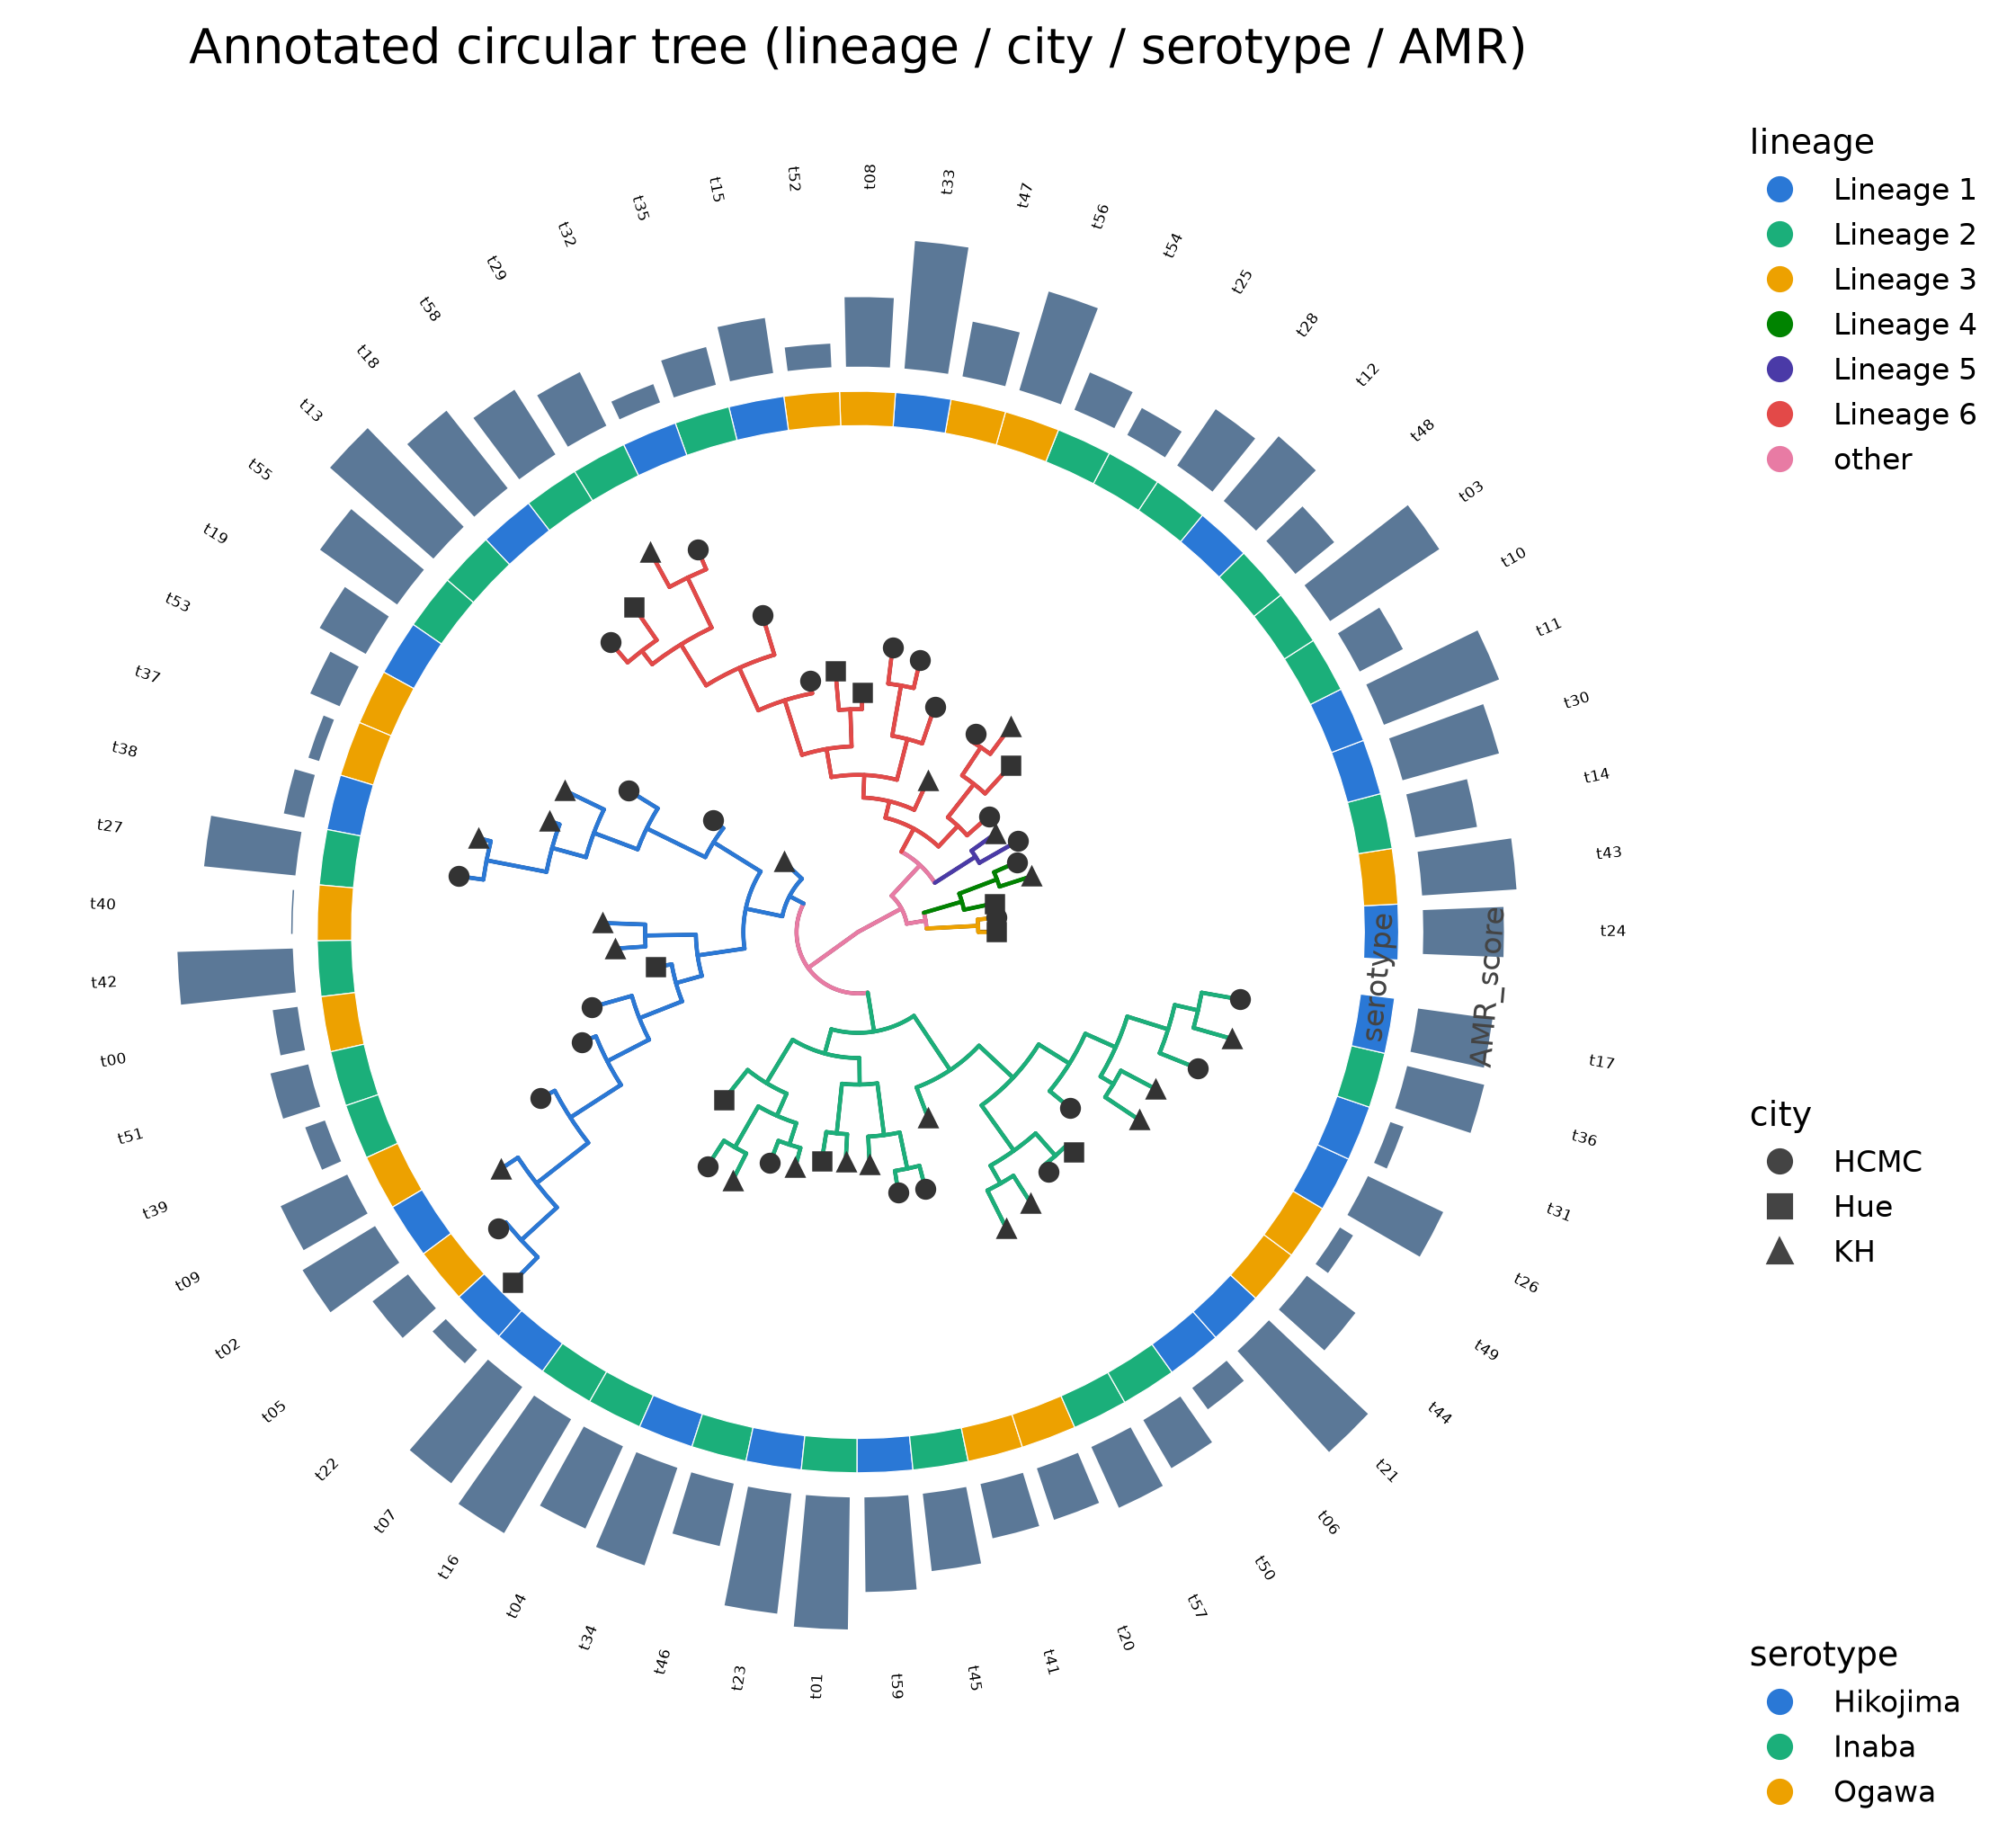
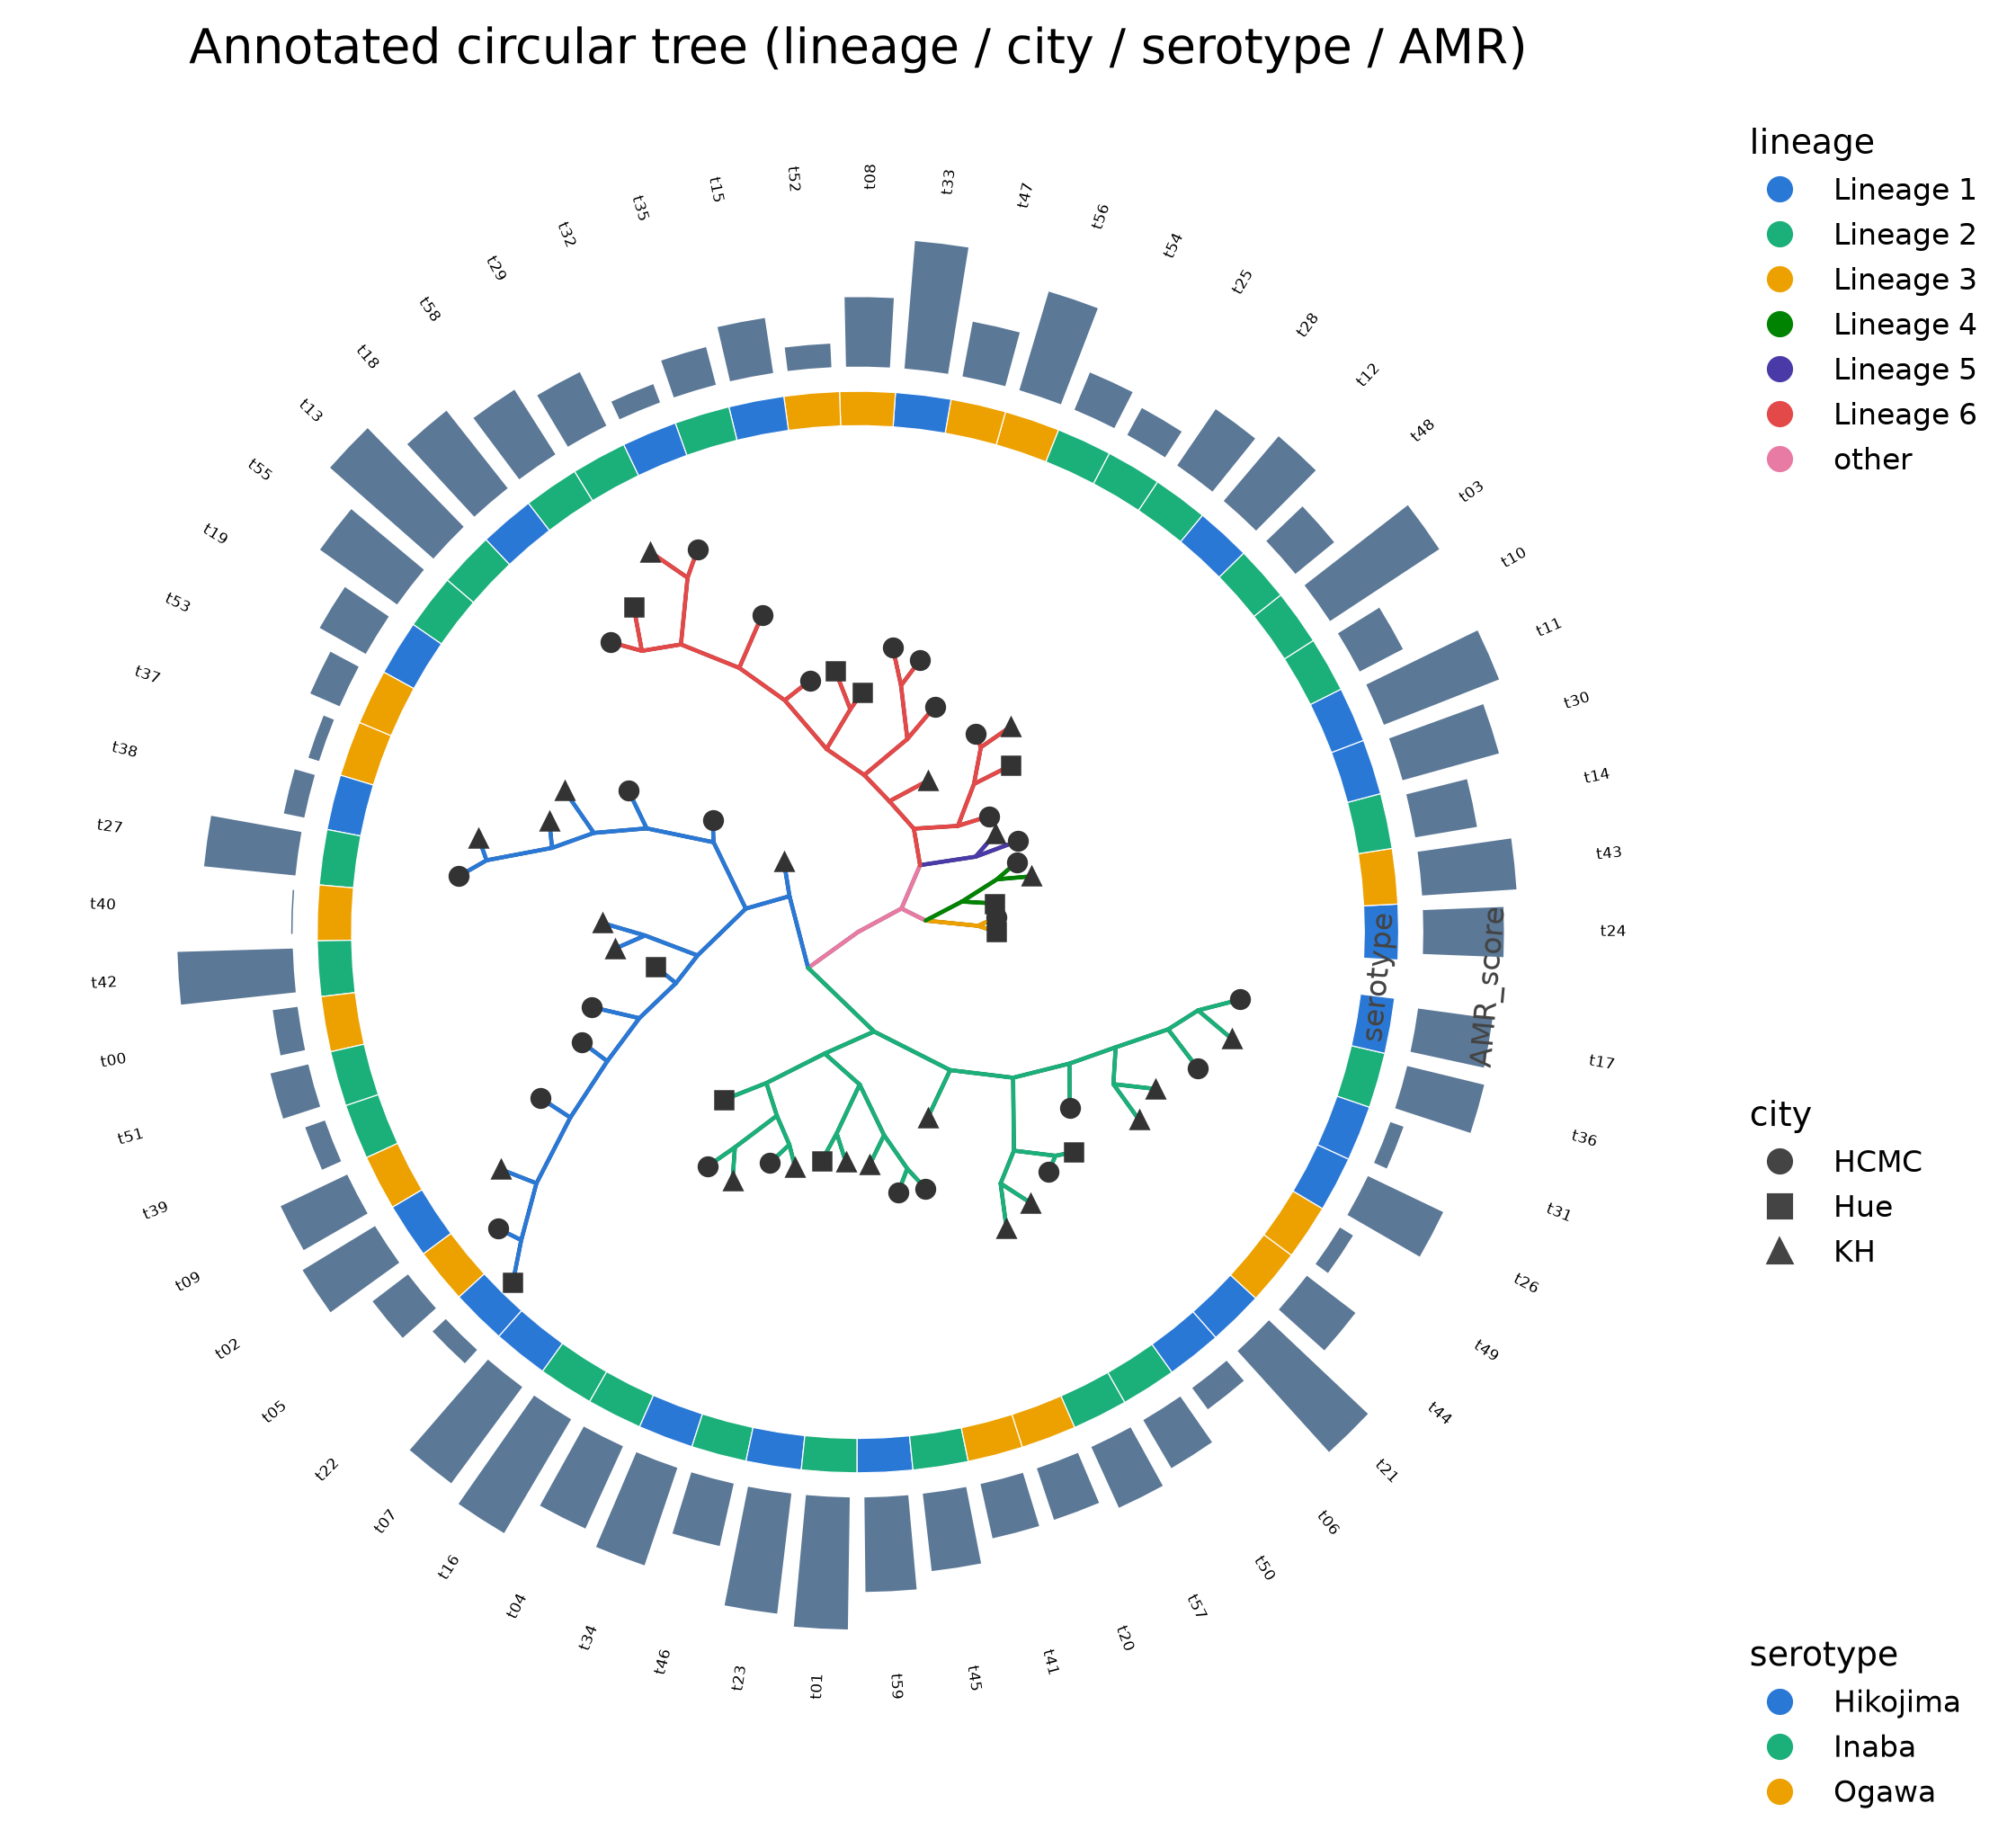
Feature circular_slanted style in the annotated-circular gallery image
Switch showcase_circular.py to layout=circular_slanted so the featured
circular gallery figure shows the cleaner starburst branch style, and
update its README caption accordingly.

diff --git a/examples/showcase_circular.py b/examples/showcase_circular.py
@@ -39,7 +39,7 @@ meta = pd.DataFrame({
 }).set_index("name")
 tr.join_data(meta.reset_index(), on="name")     # so tip points can map city/serotype
 
-p = (pt.TreeFigure(tr, layout="circular", extent=350)
+p = (pt.TreeFigure(tr, layout="circular_slanted", extent=350)
      .branches(color="lineage", size=1.1)
      .tip_points(shape="city", size=5, color="#333333")
      .ring(meta, columns=["serotype"], geom="tile", width=0.07, offset=0.03)

diff --git a/README.md b/README.md
@@ -96,9 +96,9 @@ Every figure below is produced by a script in [`examples/`](examples/)
       <sub>16S tree of life, tips colored by domain, bootstrap support (200 reps) — <code>tree_of_life_demo.py</code></sub>
     </td>
     <td width="50%">
-      <img src="assets/gallery/annotated_circular.png" alt="Annotated circular tree with lineage-colored branches, shaped tips, and rings"><br>
+      <img src="assets/gallery/annotated_circular.png" alt="Annotated circular tree with straight diagonal lineage-colored branches, shaped tips, and rings"><br>
       <b>Annotated circular</b><br>
-      <sub>Lineage-colored branches, shaped tips, tile + bar rings, three legends — <code>showcase_circular.py</code></sub>
+      <sub>Slanted (starburst) branches coloured by lineage, shaped tips, tile + bar rings, three legends — <code>showcase_circular.py</code></sub>
     </td>
   </tr>
   <tr>